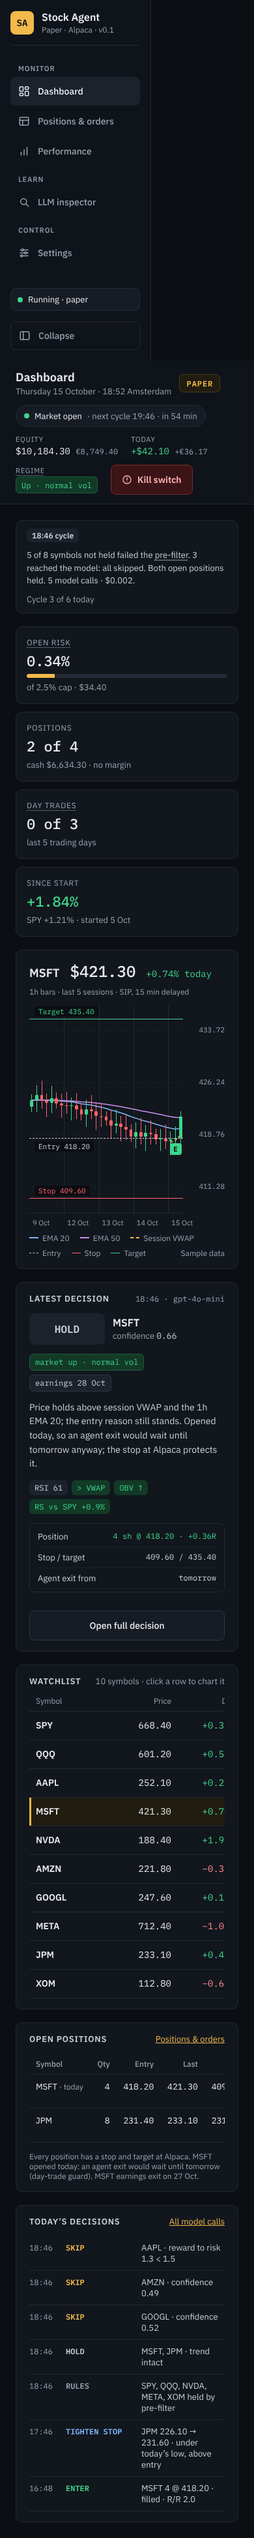
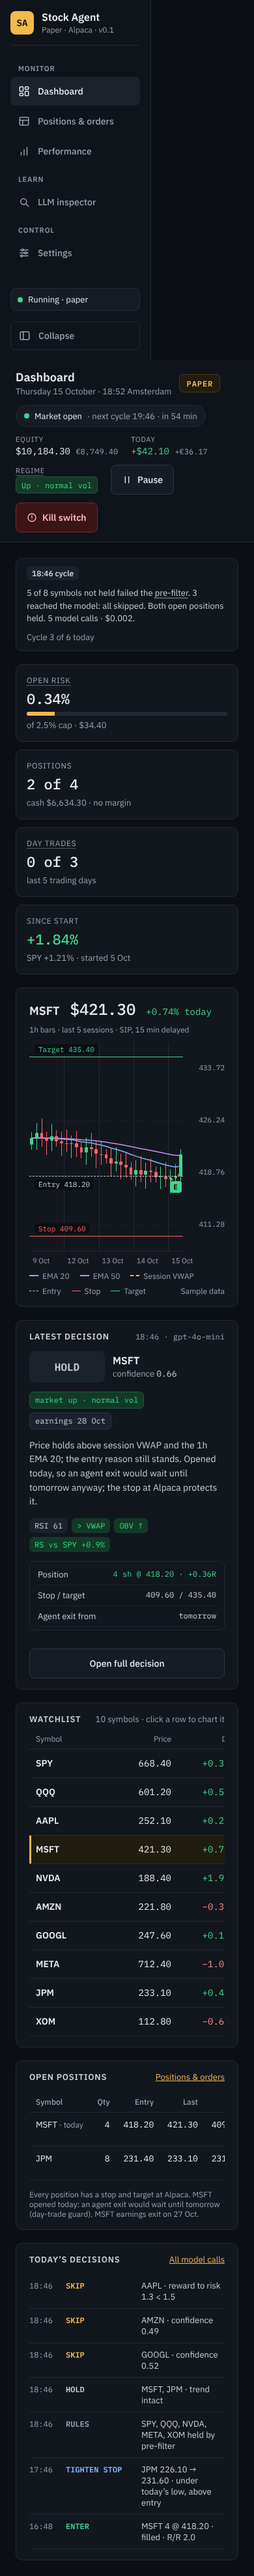
Spec changes

diff --git a/design/screens/States.dc.html b/design/screens/States.dc.html
@@ -25,11 +25,15 @@ table{border-collapse:collapse}
   <div><div style="margin-bottom: 10px"><div style="font-size: 12px; font-weight: 600; color: #F2B94B; text-transform: uppercase; letter-spacing: 0.08em">Open</div></div><div title="New York 12:52" style="display: inline-flex; align-items: center; gap: 8px; height: 32px; padding: 0 12px; border-radius: 999px; background: #171C24; border: 1px solid #232A35; font-size: 13px; white-space: nowrap"><span style="width: 8px; height: 8px; border-radius: 50%; background: #3DD68C"></span><span>Market open</span><span style="color: #98A2AF">· next cycle 19:46 · in 54 min</span></div></div>
   <div><div style="margin-bottom: 10px"><div style="font-size: 12px; font-weight: 600; color: #F2B94B; text-transform: uppercase; letter-spacing: 0.08em">Last cycle done</div></div><div title="" style="display: inline-flex; align-items: center; gap: 8px; height: 32px; padding: 0 12px; border-radius: 999px; background: #171C24; border: 1px solid #232A35; font-size: 13px; white-space: nowrap"><span style="width: 8px; height: 8px; border-radius: 50%; background: #9FB4CC"></span><span>Last cycle done</span><span style="color: #98A2AF">· closes 22:00 · stops stay active</span></div></div>
   <div><div style="margin-bottom: 10px"><div style="font-size: 12px; font-weight: 600; color: #F2B94B; text-transform: uppercase; letter-spacing: 0.08em">Closed</div></div><div title="" style="display: inline-flex; align-items: center; gap: 8px; height: 32px; padding: 0 12px; border-radius: 999px; background: #171C24; border: 1px solid #232A35; font-size: 13px; white-space: nowrap"><span style="width: 8px; height: 8px; border-radius: 50%; background: #6B7480"></span><span>Market closed</span><span style="color: #98A2AF">· opens Fri 15:30 · in 16 h 30 min</span></div></div>
+  <div><div style="margin-bottom: 10px"><div style="font-size: 12px; font-weight: 600; color: #F2B94B; text-transform: uppercase; letter-spacing: 0.08em">Paused</div><div style="font-size: 13px; color: #98A2AF; margin-top: 2px">after startup or Pause</div></div><div style="display: flex; gap: 8px; align-items: center"><div title="" style="display: inline-flex; align-items: center; gap: 8px; height: 32px; padding: 0 12px; border-radius: 999px; background: #171C24; border: 1px solid #232A35; font-size: 13px; white-space: nowrap"><span style="width: 8px; height: 8px; border-radius: 50%; background: #F2B94B"></span><span>Paused</span><span style="color: #98A2AF">· no new entries · stops active</span></div><button type="button" style="height: 44px; padding: 0 16px; display: flex; align-items: center; gap: 8px; border-radius: 8px; border: 1px solid #F2B94B; background: #F2B94B; color: #0B0E13; font-size: 14px; font-weight: 600; cursor: pointer"><svg width="16" height="16" viewBox="0 0 24 24" fill="none" stroke="currentColor" stroke-width="2" stroke-linecap="round" stroke-linejoin="round" aria-hidden="true" style="flex: 0 0 16px"><polygon points="7 4 20 12 7 20 7 4"></polygon></svg><span>Resume</span></button></div></div>
   <div><div style="margin-bottom: 10px"><div style="font-size: 12px; font-weight: 600; color: #F2B94B; text-transform: uppercase; letter-spacing: 0.08em">Early close</div><div style="font-size: 13px; color: #98A2AF; margin-top: 2px">27 Nov, the day after Thanksgiving</div></div><div title="" style="display: inline-flex; align-items: center; gap: 8px; height: 32px; padding: 0 12px; border-radius: 999px; background: #171C24; border: 1px solid #232A35; font-size: 13px; white-space: nowrap"><span style="width: 8px; height: 8px; border-radius: 50%; background: #F2B94B"></span><span>Early close</span><span style="color: #98A2AF">· closes 19:00 · 3 cycles today</span></div></div>
 </div>
 </section>
 <section aria-label="Banners" style="display: flex; flex-direction: column; gap: 16px">
   <h2 style="margin: 0; padding-bottom: 8px; border-bottom: 1px solid #232A35; font-size: 18px; font-weight: 600">Banners</h2>
+<div style="margin-bottom: 10px"><div style="font-size: 12px; font-weight: 600; color: #F2B94B; text-transform: uppercase; letter-spacing: 0.08em">Paused at startup</div><div style="font-size: 13px; color: #98A2AF; margin-top: 2px">Shown after every start until Resume</div></div><div role="status" style="display: flex; flex-wrap: wrap; align-items: center; gap: 12px; padding: 12px 20px; background: #13202F; border: 1px solid #24405F; border-radius: 8px; color: #7FB8FF; font-size: 13px">
+  <svg width="16" height="16" viewBox="0 0 24 24" fill="none" stroke="currentColor" stroke-width="2" stroke-linecap="round" stroke-linejoin="round" aria-hidden="true" style="flex: 0 0 16px"><circle cx="12" cy="12" r="9"></circle><polyline points="12 7 12 12 15 14"></polyline></svg><span style="flex: 1 1 420px; line-height: 1.5"><b>Started paused at 15:12.</b> Reconciled with Alpaca: 2 positions, both with a stop and target. Held positions are still reviewed each cycle; no new entries until you resume.</span><button type="button" style="height: 36px; padding: 0 12px; border-radius: 8px; border: 1px solid #24405F; background: transparent; color: #7FB8FF; font-size: 13px; font-weight: 500; cursor: pointer; white-space: nowrap">Resume</button>
+</div>
 <div style="margin-bottom: 10px"><div style="font-size: 12px; font-weight: 600; color: #F2B94B; text-transform: uppercase; letter-spacing: 0.08em">Kill switch on · manual</div></div><div role="status" style="display: flex; flex-wrap: wrap; align-items: center; gap: 12px; padding: 12px 20px; background: #3A1416; border: 1px solid #7A2A2E; border-radius: 8px; color: #FFB3B6; font-size: 13px">
   <svg width="16" height="16" viewBox="0 0 24 24" fill="none" stroke="currentColor" stroke-width="2" stroke-linecap="round" stroke-linejoin="round" aria-hidden="true" style="flex: 0 0 16px"><circle cx="12" cy="12" r="9"></circle><line x1="12" y1="7" x2="12" y2="13"></line><line x1="12" y1="17" x2="12" y2="17"></line></svg><span style="flex: 1 1 420px; line-height: 1.5"><b>Kill switch on since 19:02.</b> No new entries. Stops and targets at Alpaca stay in place. Reason: “testing the flow”.</span><button type="button" style="height: 36px; padding: 0 12px; border-radius: 8px; border: 1px solid #7A2A2E; background: transparent; color: #FFB3B6; font-size: 13px; font-weight: 500; cursor: pointer; white-space: nowrap">Resume…</button><button type="button" style="height: 36px; padding: 0 12px; border-radius: 8px; border: 1px solid #7A2A2E; background: transparent; color: #FFB3B6; font-size: 13px; font-weight: 500; cursor: pointer; white-space: nowrap">Stop &amp; flatten…</button>
 </div>

diff --git a/design/screens/Inspector.dc.html b/design/screens/Inspector.dc.html
@@ -62,6 +62,7 @@ table{border-collapse:collapse}
         <span title="Market regime from SPY: trend × volatility" style="font-size: 11px; color: #98A2AF; text-transform: uppercase; letter-spacing: 0.06em; text-decoration: underline dotted; text-underline-offset: 3px; cursor: help; align-self: flex-start">Regime</span>
         <span style="display: inline-flex; align-items: center; height: 24px; padding: 0 8px; border-radius: 6px; font-family: 'IBM Plex Mono', monospace; font-size: 12px; white-space: nowrap; background: #123A27; color: #3DD68C; border: 1px solid #1E5A3E">Up · normal vol</span>
       </div>
+      <a href="States.dc.html" title="Pause new entries. Stops, targets and position checks keep working." style="height: 44px; padding: 0 16px; display: flex; align-items: center; gap: 8px; border-radius: 8px; border: 1px solid #2E3643; background: #171C24; color: #E7EAEE; font-size: 14px; font-weight: 500; text-decoration: none; white-space: nowrap"><svg width="16" height="16" viewBox="0 0 24 24" fill="none" stroke="currentColor" stroke-width="2" stroke-linecap="round" stroke-linejoin="round" aria-hidden="true" style="flex: 0 0 16px"><line x1="8" y1="5" x2="8" y2="19"></line><line x1="16" y1="5" x2="16" y2="19"></line></svg><span>Pause</span></a>
       <a href="States.dc.html" title="Stop new entries, or stop and sell everything" style="height: 44px; padding: 0 16px; display: flex; align-items: center; gap: 8px; border-radius: 8px; border: 1px solid #7A2A2E; background: #3A1416; color: #FFB3B6; font-size: 14px; font-weight: 600; text-decoration: none; white-space: nowrap"><svg width="16" height="16" viewBox="0 0 24 24" fill="none" stroke="currentColor" stroke-width="2" stroke-linecap="round" stroke-linejoin="round" aria-hidden="true" style="flex: 0 0 16px"><circle cx="12" cy="12" r="9"></circle><line x1="12" y1="7" x2="12" y2="13"></line><line x1="12" y1="17" x2="12" y2="17"></line></svg><span>Kill switch</span></a>
     </div>
   </header>

diff --git a/design/screens/Main.dc.html b/design/screens/Main.dc.html
@@ -62,6 +62,7 @@ table{border-collapse:collapse}
         <span title="Market regime from SPY: trend × volatility" style="font-size: 11px; color: #98A2AF; text-transform: uppercase; letter-spacing: 0.06em; text-decoration: underline dotted; text-underline-offset: 3px; cursor: help; align-self: flex-start">Regime</span>
         <span style="display: inline-flex; align-items: center; height: 24px; padding: 0 8px; border-radius: 6px; font-family: 'IBM Plex Mono', monospace; font-size: 12px; white-space: nowrap; background: #123A27; color: #3DD68C; border: 1px solid #1E5A3E">Up · normal vol</span>
       </div>
+      <a href="States.dc.html" title="Pause new entries. Stops, targets and position checks keep working." style="height: 44px; padding: 0 16px; display: flex; align-items: center; gap: 8px; border-radius: 8px; border: 1px solid #2E3643; background: #171C24; color: #E7EAEE; font-size: 14px; font-weight: 500; text-decoration: none; white-space: nowrap"><svg width="16" height="16" viewBox="0 0 24 24" fill="none" stroke="currentColor" stroke-width="2" stroke-linecap="round" stroke-linejoin="round" aria-hidden="true" style="flex: 0 0 16px"><line x1="8" y1="5" x2="8" y2="19"></line><line x1="16" y1="5" x2="16" y2="19"></line></svg><span>Pause</span></a>
       <a href="States.dc.html" title="Stop new entries, or stop and sell everything" style="height: 44px; padding: 0 16px; display: flex; align-items: center; gap: 8px; border-radius: 8px; border: 1px solid #7A2A2E; background: #3A1416; color: #FFB3B6; font-size: 14px; font-weight: 600; text-decoration: none; white-space: nowrap"><svg width="16" height="16" viewBox="0 0 24 24" fill="none" stroke="currentColor" stroke-width="2" stroke-linecap="round" stroke-linejoin="round" aria-hidden="true" style="flex: 0 0 16px"><circle cx="12" cy="12" r="9"></circle><line x1="12" y1="7" x2="12" y2="13"></line><line x1="12" y1="17" x2="12" y2="17"></line></svg><span>Kill switch</span></a>
     </div>
   </header>

diff --git a/design/screens/Performance.dc.html b/design/screens/Performance.dc.html
@@ -62,6 +62,7 @@ table{border-collapse:collapse}
         <span title="Market regime from SPY: trend × volatility" style="font-size: 11px; color: #98A2AF; text-transform: uppercase; letter-spacing: 0.06em; text-decoration: underline dotted; text-underline-offset: 3px; cursor: help; align-self: flex-start">Regime</span>
         <span style="display: inline-flex; align-items: center; height: 24px; padding: 0 8px; border-radius: 6px; font-family: 'IBM Plex Mono', monospace; font-size: 12px; white-space: nowrap; background: #123A27; color: #3DD68C; border: 1px solid #1E5A3E">Up · normal vol</span>
       </div>
+      <a href="States.dc.html" title="Pause new entries. Stops, targets and position checks keep working." style="height: 44px; padding: 0 16px; display: flex; align-items: center; gap: 8px; border-radius: 8px; border: 1px solid #2E3643; background: #171C24; color: #E7EAEE; font-size: 14px; font-weight: 500; text-decoration: none; white-space: nowrap"><svg width="16" height="16" viewBox="0 0 24 24" fill="none" stroke="currentColor" stroke-width="2" stroke-linecap="round" stroke-linejoin="round" aria-hidden="true" style="flex: 0 0 16px"><line x1="8" y1="5" x2="8" y2="19"></line><line x1="16" y1="5" x2="16" y2="19"></line></svg><span>Pause</span></a>
       <a href="States.dc.html" title="Stop new entries, or stop and sell everything" style="height: 44px; padding: 0 16px; display: flex; align-items: center; gap: 8px; border-radius: 8px; border: 1px solid #7A2A2E; background: #3A1416; color: #FFB3B6; font-size: 14px; font-weight: 600; text-decoration: none; white-space: nowrap"><svg width="16" height="16" viewBox="0 0 24 24" fill="none" stroke="currentColor" stroke-width="2" stroke-linecap="round" stroke-linejoin="round" aria-hidden="true" style="flex: 0 0 16px"><circle cx="12" cy="12" r="9"></circle><line x1="12" y1="7" x2="12" y2="13"></line><line x1="12" y1="17" x2="12" y2="17"></line></svg><span>Kill switch</span></a>
     </div>
   </header>

diff --git a/design/screens/Positions.dc.html b/design/screens/Positions.dc.html
@@ -62,6 +62,7 @@ table{border-collapse:collapse}
         <span title="Market regime from SPY: trend × volatility" style="font-size: 11px; color: #98A2AF; text-transform: uppercase; letter-spacing: 0.06em; text-decoration: underline dotted; text-underline-offset: 3px; cursor: help; align-self: flex-start">Regime</span>
         <span style="display: inline-flex; align-items: center; height: 24px; padding: 0 8px; border-radius: 6px; font-family: 'IBM Plex Mono', monospace; font-size: 12px; white-space: nowrap; background: #123A27; color: #3DD68C; border: 1px solid #1E5A3E">Up · normal vol</span>
       </div>
+      <a href="States.dc.html" title="Pause new entries. Stops, targets and position checks keep working." style="height: 44px; padding: 0 16px; display: flex; align-items: center; gap: 8px; border-radius: 8px; border: 1px solid #2E3643; background: #171C24; color: #E7EAEE; font-size: 14px; font-weight: 500; text-decoration: none; white-space: nowrap"><svg width="16" height="16" viewBox="0 0 24 24" fill="none" stroke="currentColor" stroke-width="2" stroke-linecap="round" stroke-linejoin="round" aria-hidden="true" style="flex: 0 0 16px"><line x1="8" y1="5" x2="8" y2="19"></line><line x1="16" y1="5" x2="16" y2="19"></line></svg><span>Pause</span></a>
       <a href="States.dc.html" title="Stop new entries, or stop and sell everything" style="height: 44px; padding: 0 16px; display: flex; align-items: center; gap: 8px; border-radius: 8px; border: 1px solid #7A2A2E; background: #3A1416; color: #FFB3B6; font-size: 14px; font-weight: 600; text-decoration: none; white-space: nowrap"><svg width="16" height="16" viewBox="0 0 24 24" fill="none" stroke="currentColor" stroke-width="2" stroke-linecap="round" stroke-linejoin="round" aria-hidden="true" style="flex: 0 0 16px"><circle cx="12" cy="12" r="9"></circle><line x1="12" y1="7" x2="12" y2="13"></line><line x1="12" y1="17" x2="12" y2="17"></line></svg><span>Kill switch</span></a>
     </div>
   </header>

diff --git a/design/screens/Settings.dc.html b/design/screens/Settings.dc.html
@@ -62,6 +62,7 @@ table{border-collapse:collapse}
         <span title="Market regime from SPY: trend × volatility" style="font-size: 11px; color: #98A2AF; text-transform: uppercase; letter-spacing: 0.06em; text-decoration: underline dotted; text-underline-offset: 3px; cursor: help; align-self: flex-start">Regime</span>
         <span style="display: inline-flex; align-items: center; height: 24px; padding: 0 8px; border-radius: 6px; font-family: 'IBM Plex Mono', monospace; font-size: 12px; white-space: nowrap; background: #123A27; color: #3DD68C; border: 1px solid #1E5A3E">Up · normal vol</span>
       </div>
+      <a href="States.dc.html" title="Pause new entries. Stops, targets and position checks keep working." style="height: 44px; padding: 0 16px; display: flex; align-items: center; gap: 8px; border-radius: 8px; border: 1px solid #2E3643; background: #171C24; color: #E7EAEE; font-size: 14px; font-weight: 500; text-decoration: none; white-space: nowrap"><svg width="16" height="16" viewBox="0 0 24 24" fill="none" stroke="currentColor" stroke-width="2" stroke-linecap="round" stroke-linejoin="round" aria-hidden="true" style="flex: 0 0 16px"><line x1="8" y1="5" x2="8" y2="19"></line><line x1="16" y1="5" x2="16" y2="19"></line></svg><span>Pause</span></a>
       <a href="States.dc.html" title="Stop new entries, or stop and sell everything" style="height: 44px; padding: 0 16px; display: flex; align-items: center; gap: 8px; border-radius: 8px; border: 1px solid #7A2A2E; background: #3A1416; color: #FFB3B6; font-size: 14px; font-weight: 600; text-decoration: none; white-space: nowrap"><svg width="16" height="16" viewBox="0 0 24 24" fill="none" stroke="currentColor" stroke-width="2" stroke-linecap="round" stroke-linejoin="round" aria-hidden="true" style="flex: 0 0 16px"><circle cx="12" cy="12" r="9"></circle><line x1="12" y1="7" x2="12" y2="13"></line><line x1="12" y1="17" x2="12" y2="17"></line></svg><span>Kill switch</span></a>
     </div>
   </header>

diff --git a/docs/SPEC.md b/docs/SPEC.md
@@ -262,6 +262,8 @@ Risk gates run in code after the model answers, in the order below; the first ga
 
 **Kill switch.** Manual (header button) or automatic (drawdown kill, repeated errors). It stops all new entries and leaves existing stops in place. "Stop & flatten" also cancels all open orders and sells every position at market; outside regular hours the sells are queued as market-on-open orders. Stop & flatten never refuses because of the day-trade rule: it warns when a sale would count as a day trade, and if Alpaca rejects a sale (for example under its own day-trade protection), that position keeps its stop and the rejection shows as a critical banner. Resuming requires an explicit acknowledgment with a typed reason, which is stored.
 
+**Paused at startup.** The agent always starts with new entries paused. Startup, reconciliation with Alpaca, position checks, the stops and targets at Alpaca, earnings exits and outcome tracking all run as normal; cycles still run and review held positions, so the model can still decide to hold, tighten a stop or exit. No new entries are placed until Marc presses Resume in the header: one click, no reason needed. Pause is the same button in reverse and can be used at any time. Pause and the kill switch are separate: the kill switch needs a typed reason to resume and can also flatten. Both states are stored and survive a restart: a kill switch that was on stays on, and startup always comes up paused even if trading was running before.
+
 **Errors.** Three failed cycles in a row (any unhandled error) turn the kill switch on. A failed model call is never retried with a different model silently. On a normal shutdown the app waits up to 60 seconds for a running cycle or position check to finish; if it doesn't, it is marked interrupted, which does not count as a failure. Only a cycle or check still marked running at the next startup (a real crash) counts as failed. Startup always reconciles with Alpaca before anything else runs.
 
 **Supervised mode** (built in PR 6). Every entry waits for Marc's approval on the Dashboard. A pending approval expires at the next full cycle. Approving re-checks the risk gates, the size and the spread, and sets a new entry limit from the current price; the new limit must also pass the original code checks (stop 1.5–4 × ATR away, reward to risk at least 1.5, using the model's stop and target). If any check fails, the approval is rejected with the reason shown. There is at most one pending approval per symbol; a newer one replaces it. Approving is disabled while the kill switch is on. Each approval is stored in an `approvals` table (decision, status pending, approved, rejected or expired, reason, created and resolved times) and its outcome shows on the decision. Agent exits, stops and targets at Alpaca, earnings exits and the kill switch never wait for approval.
@@ -274,7 +276,7 @@ Risk gates run in code after the model answers, in the order below; the first ga
 
 The GUI reuses Trading Agent's visual language: the dark "instrument panel" style, IBM Plex type and the design tokens from its DESIGN.md. Copy the tokens file into this repo; do not import from the other project. Money is shown in USD with the EUR equivalent beside it; times are in Amsterdam time with New York time on hover.
 
-**Header (every screen):** PAPER badge, market session state with a countdown to the next open, close or cycle, equity in USD and EUR, today's P&L, regime label, kill switch button.
+**Header (every screen):** PAPER badge, market session state with a countdown to the next open, close or cycle, equity in USD and EUR, today's P&L, regime label, Pause/Resume button, kill switch button.
 
 | Screen | What it shows |
 | --- | --- |

diff --git a/README.md b/README.md
@@ -26,14 +26,14 @@ A paper-trading agent for liquid US stocks and ETFs. It trades through an Alpaca
 cp .env.example .env            # fill in the keys
 cp backend/config.example.yaml backend/config.yaml
 make install
-make dev                         # backend on 127.0.0.1:SA_PORT, GUI on 127.0.0.1:5173
+make run                         # builds the GUI, serves everything on 127.0.0.1:SA_PORT
 ```
 
-Open the GUI and check the header says PAPER. The agent runs its first cycle at 10:46 New York time (16:46 in Amsterdam most of the year).
+The agent starts **paused**: it reconciles with Alpaca and watches open positions, but places no new entries. Open the GUI, check the header says PAPER, then press Resume. The first cycle runs at 10:46 New York time (16:46 in Amsterdam most of the year).
 
-`make run` instead builds the GUI once and serves everything from the backend on 127.0.0.1:SA_PORT.
+For development, `make dev` runs the backend with auto-reload on 127.0.0.1:SA_PORT and the Vite dev server on 127.0.0.1:5173; Ctrl-C stops both.
 
-Without keys, run `MODE=simulated make run`: recorded bars and a fake broker, no network.
+Without keys, run `MODE=simulated make run` (or `make dev`): recorded bars and a fake broker, no network.
 
 Reset the Alpaca paper account to $10,000 in the Alpaca dashboard before the first run.
 

diff --git a/docs/CHANGES.md b/docs/CHANGES.md
@@ -2,10 +2,10 @@
 
 Newest first.
 
-## 2026-10-17 — Makefile like Trading Agent
+## 2026-10-17 — Paused at startup
 
-- Commands: `make dev` is now the two-server mode (uvicorn --reload + Vite dev server, Ctrl-C stops both). `make run` builds the GUI once and serves everything from the backend on 127.0.0.1:SA_PORT; the FastAPI app mounts `frontend/dist` with an index.html fallback for client-side routes.
-- `make test` splits into `test-backend`, `test-frontend` and `test-e2e` (Playwright skipped when browsers are not installed).
+- Risk management: new "Paused at startup" paragraph. The agent always starts with new entries paused; reconciliation, position checks, broker-side stops, earnings exits, outcome tracking and reviews of held positions keep running. Resume is one click in the header (no reason). Pause and the kill switch are separate states; both are stored, and a kill switch that was on stays on after a restart.
+- GUI header: Pause/Resume button next to the kill switch. README: quick start says the agent starts paused.
 
 ## 2026-10-17 — Decision card and drawer like Trading Agent
 

diff --git a/design/CHANGES.md b/design/CHANGES.md
@@ -2,6 +2,12 @@
 
 Newest first. Each entry names the screens it touches.
 
+## 2026-10-17 — Paused at startup
+
+- Header (every screen): Pause button left of Kill switch; it becomes an amber Resume button while paused.
+- States: new "Paused" session state with the Resume button, and a blue "Started paused" banner shown after every start until Resume.
+- All screenshots re-rendered.
+
 ## 2026-10-17 — Decision card and drawer like Trading Agent
 
 - Dashboard: the Latest decision card adds a market-regime chip and an earnings chip, and always shows a three-line summary box (skip: failed check and proposed stop/target; held: position, stop/target, when an agent exit is allowed; no model call: the pre-filter reason). Button renamed "Open full decision".

diff --git a/AGENTS.md b/AGENTS.md
@@ -23,10 +23,10 @@ Run before every commit:
 
 ```bash
 make lint        # ruff + mypy (backend), pnpm lint + pnpm typecheck (frontend)
-make test        # pytest with sockets blocked, vitest
+make test        # pytest with sockets blocked, vitest, playwright e2e when browsers are installed
 ```
 
-`make run` starts backend and GUI; `MODE=simulated make run` runs without network.
+`make dev` starts the backend (uvicorn --reload) and the Vite dev server; Ctrl-C stops both. `make run` builds the GUI and serves everything from the backend on 127.0.0.1:SA_PORT. `MODE=simulated` with either command runs without network.
 
 ## Hard rules
 
